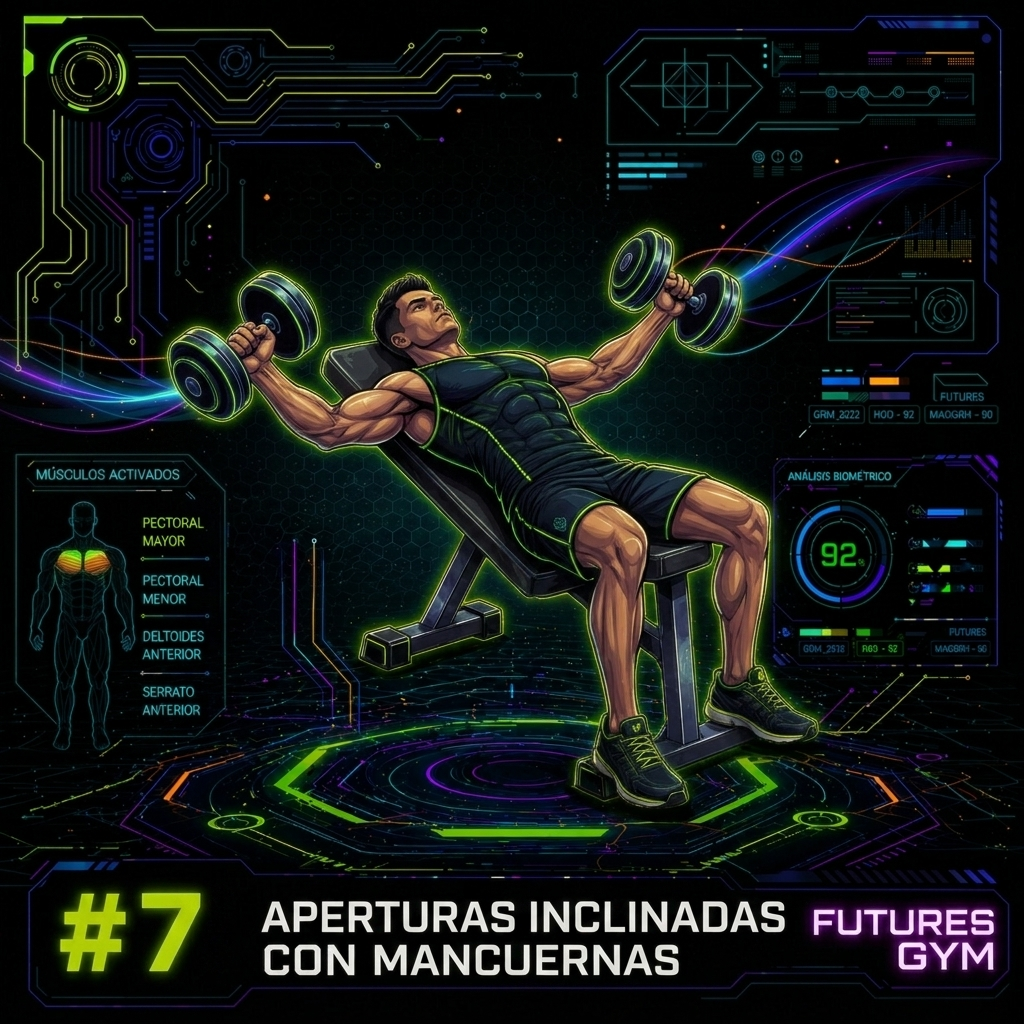
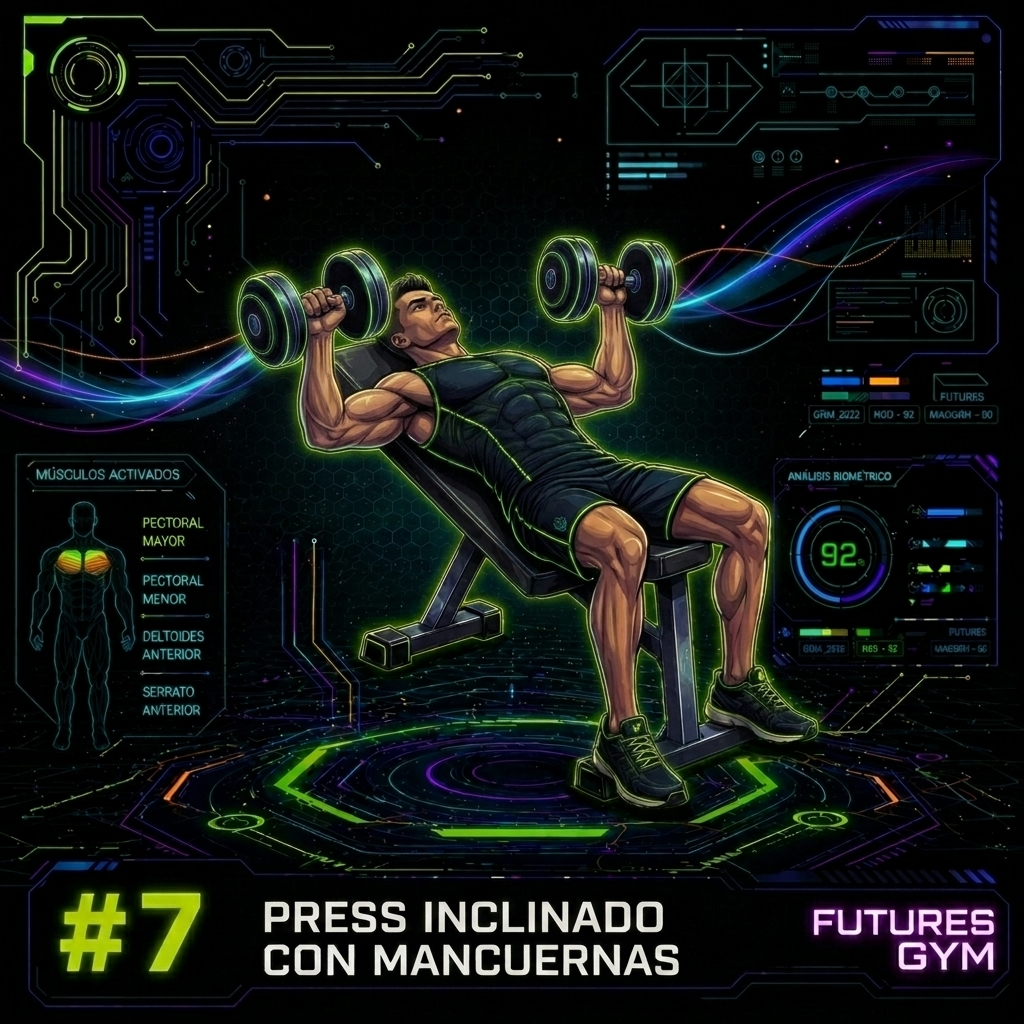
feat: update exercise ID 7 to 'Press inclinado con mancuernas' and regenerate image

diff --git a/EJERCICIOS_CATALOGO.html b/EJERCICIOS_CATALOGO.html
@@ -286,9 +286,9 @@
         <tr>
             <td class="id-cell">#7</td>
             <td>
-                <img src="./public/exercises/v2_pecho_7.png" class="exercise-img" alt="Aperturas inclinadas con mancuernas" onerror="this.src='https://via.placeholder.com/120x80/222/ff0000?text=Error'">
+                <img src="./public/exercises/v2_pecho_7.png" class="exercise-img" alt="Press inclinado con mancuernas" onerror="this.src='https://via.placeholder.com/120x80/222/ff0000?text=Error'">
             </td>
-            <td><strong>Aperturas inclinadas con mancuernas</strong></td>
+            <td><strong>Press inclinado con mancuernas</strong></td>
             <td><span class="category-badge">Pecho</span></td>
         </tr>
         <tr>
